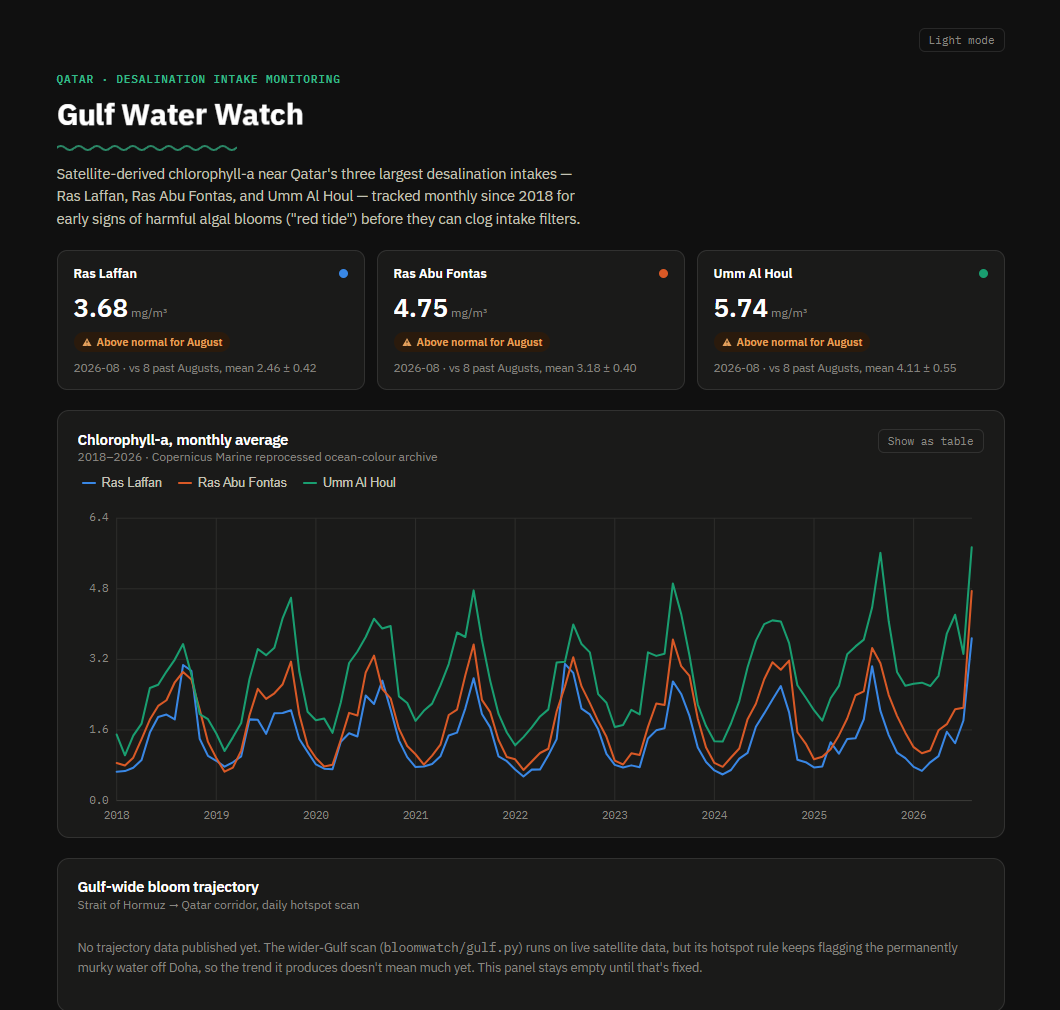
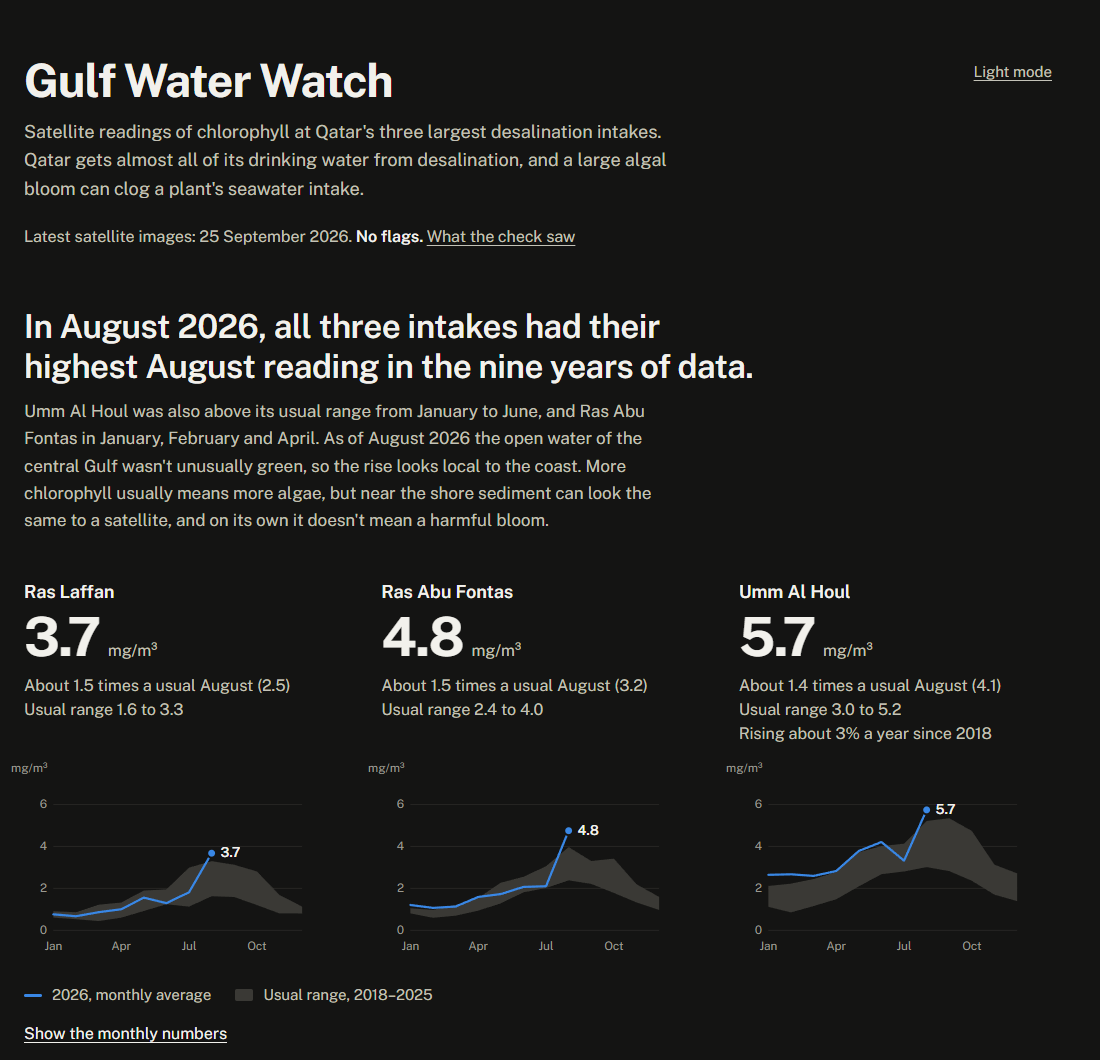
Fix map caption jump, update screenshot

diff --git a/qatar_dashboard_react/src/components/RedTideMap.jsx b/qatar_dashboard_react/src/components/RedTideMap.jsx
@@ -56,6 +56,10 @@ function describeFrame(frame) {
   );
 }
 
+function captionFor(frame, data) {
+  return `${relativeToSighting(frame.date, data.documented_first_sighting)}. ${describeFrame(frame)}`;
+}
+
 // Grid values are pixel centres; the image spans half a pixel beyond them on every side.
 function placeOnMap(point, grid) {
   const latStep = (grid.north - grid.south) / (grid.rows - 1);
@@ -201,6 +205,9 @@ export default function RedTideMap({ theme }) {
   const midLat = grid ? (grid.north + grid.south) / 2 : 25.7;
   const aspect = grid ? (grid.cols * Math.cos((midLat * Math.PI) / 180)) / grid.rows : 2.07;
   const current = shown !== null ? data.frames[shown] : null;
+  const longestNote = data
+    ? data.frames.map((f) => captionFor(f, data)).reduce((a, b) => (b.length > a.length ? b : a), "")
+    : " ";
 
   // Timeline: flagged area on each check. Linear scale; any non-zero day gets at least 2 px
   // so a small patch is still visible (the exact figure is in the caption above the map).
@@ -237,10 +244,16 @@ export default function RedTideMap({ theme }) {
 
   return (
     <figure className="redtide-map" ref={rootRef}>
-      <div className="map-caption" aria-live={playing ? "off" : "polite"}>
-        <div className="map-date">{current ? formatDay(current.date) : " "}</div>
-        <div className="map-note">
-          {current ? `${relativeToSighting(current.date, data.documented_first_sighting)}. ${describeFrame(current)}` : " "}
+      {/* The hidden copy of the longest caption sits in the same grid cell as the real one, so the
+          caption always takes the same height and the map doesn't jump as the text changes. */}
+      <div className="map-caption">
+        <div className="map-caption-sizer" aria-hidden="true">
+          <div className="map-date">30 September 2008</div>
+          <div className="map-note">{longestNote}</div>
+        </div>
+        <div aria-live={playing ? "off" : "polite"}>
+          <div className="map-date">{current ? formatDay(current.date) : " "}</div>
+          <div className="map-note">{current ? captionFor(current, data) : " "}</div>
         </div>
       </div>
 

diff --git a/qatar_dashboard_react/src/styles.css b/qatar_dashboard_react/src/styles.css
@@ -424,8 +424,14 @@ tbody th {
   margin: 32px 0 0;
 }
 .map-caption {
-  min-height: 3.4em;
+  display: grid;
   margin-bottom: 12px;
+}
+.map-caption > * {
+  grid-area: 1 / 1;
+}
+.map-caption-sizer {
+  visibility: hidden;
 }
 .map-date {
   font-size: 22px;
